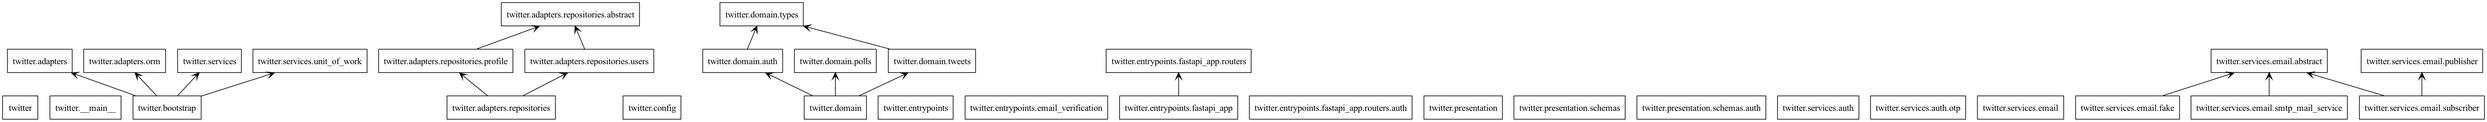
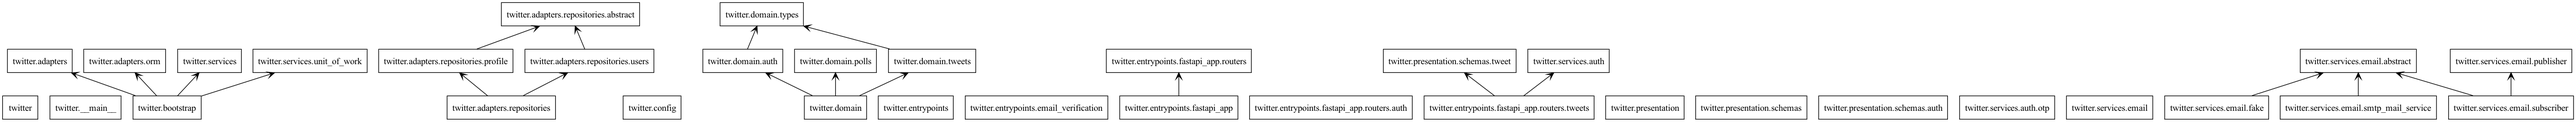
add tweet endpoints

diff --git a/twitter/entrypoints/fastapi_app/routers/tweets.py b/twitter/entrypoints/fastapi_app/routers/tweets.py
@@ -1,0 +1,42 @@
+from fastapi import APIRouter, Depends
+
+from twitter.presentation.schemas.tweet import (
+    CreateTweetSchema,
+    DeleteTweetSchema,
+    UpdateTweetSchema
+)
+from twitter.services.auth import get_current_active_user
+
+router = APIRouter(prefix='tweets')
+
+
+@router.post('/create')
+def create_tweet(
+    tweet: CreateTweetSchema,
+    user: Depends(get_current_active_user)
+):
+    pass
+
+
+@router.delete('/delete')
+def delete_tweet(
+    tweet: DeleteTweetSchema,
+    user: Depends(get_current_active_user)
+):
+    pass
+
+
+@router.patch('/update')
+def update_tweet(
+    tweet: UpdateTweetSchema,
+    user: Depends(get_current_active_user)
+):
+    pass
+
+
+@router.put('/edit')
+def edit_tweet(
+    tweet: UpdateTweetSchema,
+    user: Depends(get_current_active_user)
+):
+    pass

diff --git a/twitter/entrypoints/fastapi_app/routers/auth.py b/twitter/entrypoints/fastapi_app/routers/auth.py
@@ -4,8 +4,11 @@ from fastapi import APIRouter, Response
 
 from ....config import REDIS_EMAIL_VER_CHANNEL, get_redis_uri
 from ....domain.auth import Profile, User
-from ....presentation.schemas.auth import (LoginSchema, UserCreateSchema,
-                                           VerifyEmailSchema)
+from ....presentation.schemas.auth import (
+    LoginSchema,
+    UserCreateSchema,
+    VerifyEmailSchema
+)
 from ....services.auth import otp, set_user_password, verify_password
 from ....services.email.publisher import RedisPublisher
 from ....services.unit_of_work import SqlAlchemyUnitOfWork

diff --git a/twitter/adapters/orm.py b/twitter/adapters/orm.py
@@ -1,6 +1,17 @@
-from sqlalchemy import (Boolean, Column, DateTime, ForeignKey,
-                        ForeignKeyConstraint, Integer, Interval, MetaData,
-                        String, Table, Text, create_engine)
+from sqlalchemy import (
+    Boolean,
+    Column,
+    DateTime,
+    ForeignKey,
+    ForeignKeyConstraint,
+    Integer,
+    Interval,
+    MetaData,
+    String,
+    Table,
+    Text,
+    create_engine
+)
 from sqlalchemy.orm import registry, relationship, sessionmaker
 
 from .. import config, domain

diff --git a/twitter/entrypoints/email_verification/__init__.py b/twitter/entrypoints/email_verification/__init__.py
@@ -1,6 +1,9 @@
 from ...bootstrap import bootstrap
-from ...config import (REDIS_EMAIL_VER_CHANNEL, get_redis_uri,
-                       get_smtp_service_credentials)
+from ...config import (
+    REDIS_EMAIL_VER_CHANNEL,
+    get_redis_uri,
+    get_smtp_service_credentials
+)
 from ...services.email.fake import FakeMailService
 from ...services.email.smtp_mail_service import SMTPMailService
 from ...services.email.subscriber import RedisSubscriber

diff --git a/twitter/presentation/schemas/tweet.py b/twitter/presentation/schemas/tweet.py
@@ -1,0 +1,18 @@
+from typing import Optional
+
+from pydantic import BaseModel
+
+
+class CreateTweetSchema(BaseModel):
+    content: str
+    quote_of: Optional[int]
+    reply_to: Optional[int]
+    previous_on_threa: Optional[int]
+
+
+class DeleteTweetSchema(BaseModel):
+    tweet_id: int
+
+
+class UpdateTweetSchema(CreateTweetSchema):
+    tweet_id: int
